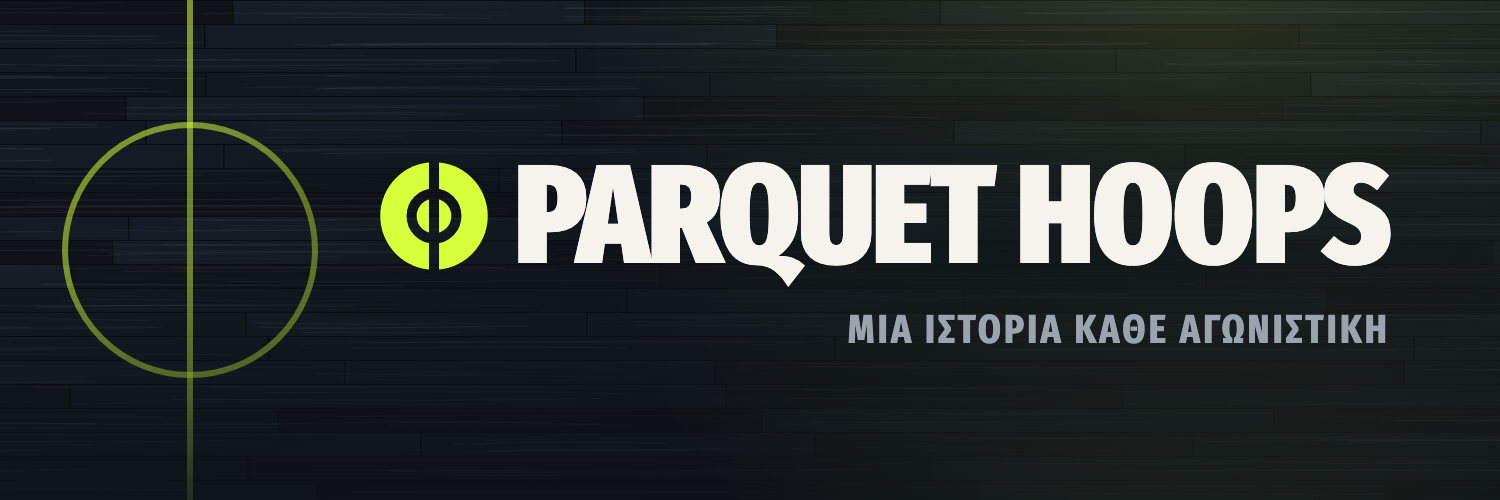
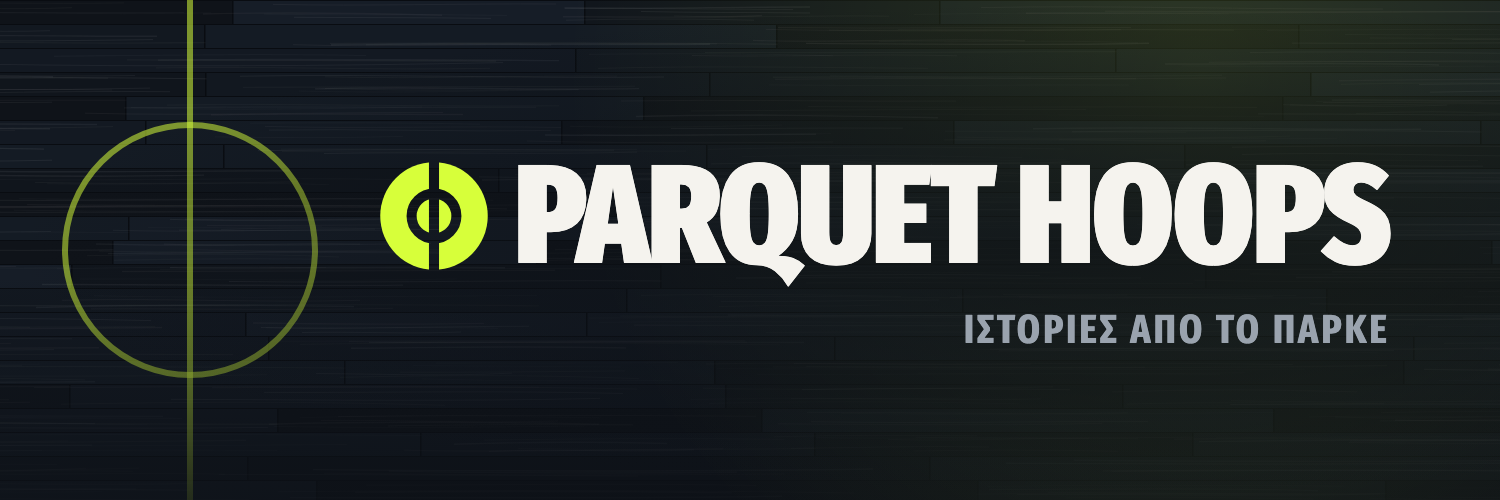
New motto: Stories from the floor / Ιστορίες από το παρκέ

Changed region(s): [[0.552, 0.63, 0.92, 0.69]]

diff --git a/scripts/render_brand.py b/scripts/render_brand.py
@@ -16,8 +16,8 @@ C = BRAND["colors"]
 OUT = ROOT / "assets" / "brand"
 
 LANGS = {
-    "en": {"name": BRAND["name"]["en"], "tagline": "One story per round"},
-    "el": {"name": BRAND["name"]["el"], "tagline": "Μία ιστορία κάθε αγωνιστική"},
+    "en": {"name": BRAND["name"]["en"], "tagline": "Stories from the floor"},
+    "el": {"name": BRAND["name"]["el"], "tagline": "Ιστορίες από το παρκέ"},
 }
 
 
